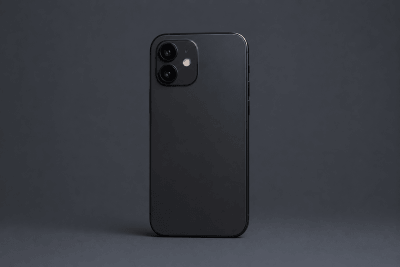
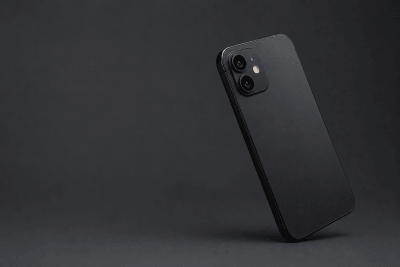
feat: add responsive header with heading and CTA button

diff --git a/src/components/Header.jsx b/src/components/Header.jsx
@@ -1,28 +1,54 @@
 const Header = () => {
+  return (
+    <header className="relative overflow-hidden min-h-screen flex flex-col lg:flex-row" >
 
-    return(
-        <header className="relative overflow-hidden">
-            <picture>
-                <source
-                    type="image/png"
-                    srcSet="
-                        /images/phone_header_400.png 400w,
-                        /images/phone_header_800.png 800w,
-                        /images/phone_header_1200.png 1200w,
-                        /images/phone_header_1600.png 1600w,
-                    "
-                />
+      {/* IMAGE */}
+      <picture className="relative w-full h-[50vh] lg:absolute lg:h-full select-none">
+        <source
+          type="image/png"
+          srcSet="
+            /images/phone_header_400.png 400w,
+            /images/phone_header_800.png 800w,
+            /images/phone_header_1200.png 1200w,
+            /images/phone_header.png 1600w
+          "
+        />
 
-                <img 
-                    src="phone_header_1200" 
-                    alt="Smartphone hero image"
-                    loading="eager"
-                    decoding="async" 
-                    className="h-lvh w-full drop-shadow-2xl"
-                />
-            </picture>
-        </header>
-    )
+        <img
+          src="/images/phone_header_1200.png"
+          alt="Smartphone hero image"
+          loading="eager"
+          decoding="async"
+          draggable="false"
+          className="
+            absolute inset-0
+            w-full h-full
+            object-cover
+            select-none
+          "
+        />
+      </picture>
+
+      {/* OVERLAY CONTENT */}
+      {/* Content */}
+      <div className="relative flex flex-col lg:flex-row  items-center py-8 lg:py-0 shrink-0 justify-center">
+        {/* text container */}
+        <div className="relative z-[1] mt-[1vw] mx-10  lg:ml-[20vw] lg:mr-auto justify-center items-center">
+          {/* text inner container */}
+          <div className="text-center">
+            <h1 className="text-4xl font-bold text-shadow-white-950">
+              Premium Smartphones
+            </h1>
+            <p className="text-xl leading-[2]">Sophisticated engineering, crafted without compromise.</p>
+            <button className="bg-purple-700 hover:bg-purple-600 text-white mt-4 py-3 px-4 rounded-full cursor-pointer transition-transform duration-200 hover:scale-110">
+              Browse
+            </button>
+          </div>
+        </div>
+      </div>
+      
+    </header>
+  );
 };
 
 export default Header;

diff --git a/src/index.css b/src/index.css
@@ -1,5 +1,12 @@
+@import url('https://fonts.googleapis.com/css2?family=Fustat:wght@200..800&display=swap');
+
 @import "tailwindcss";
 
 body {
     @apply bg-zinc-900 text-zinc-100 antialiased min-h-screen overflow-x-hidden font-sans tracking-tight selection:bg-zinc-700 selection:text-white; 
 }
+
+h1, h2, h3, p {
+    font-family: "Fustat", sans-serif;
+}
+